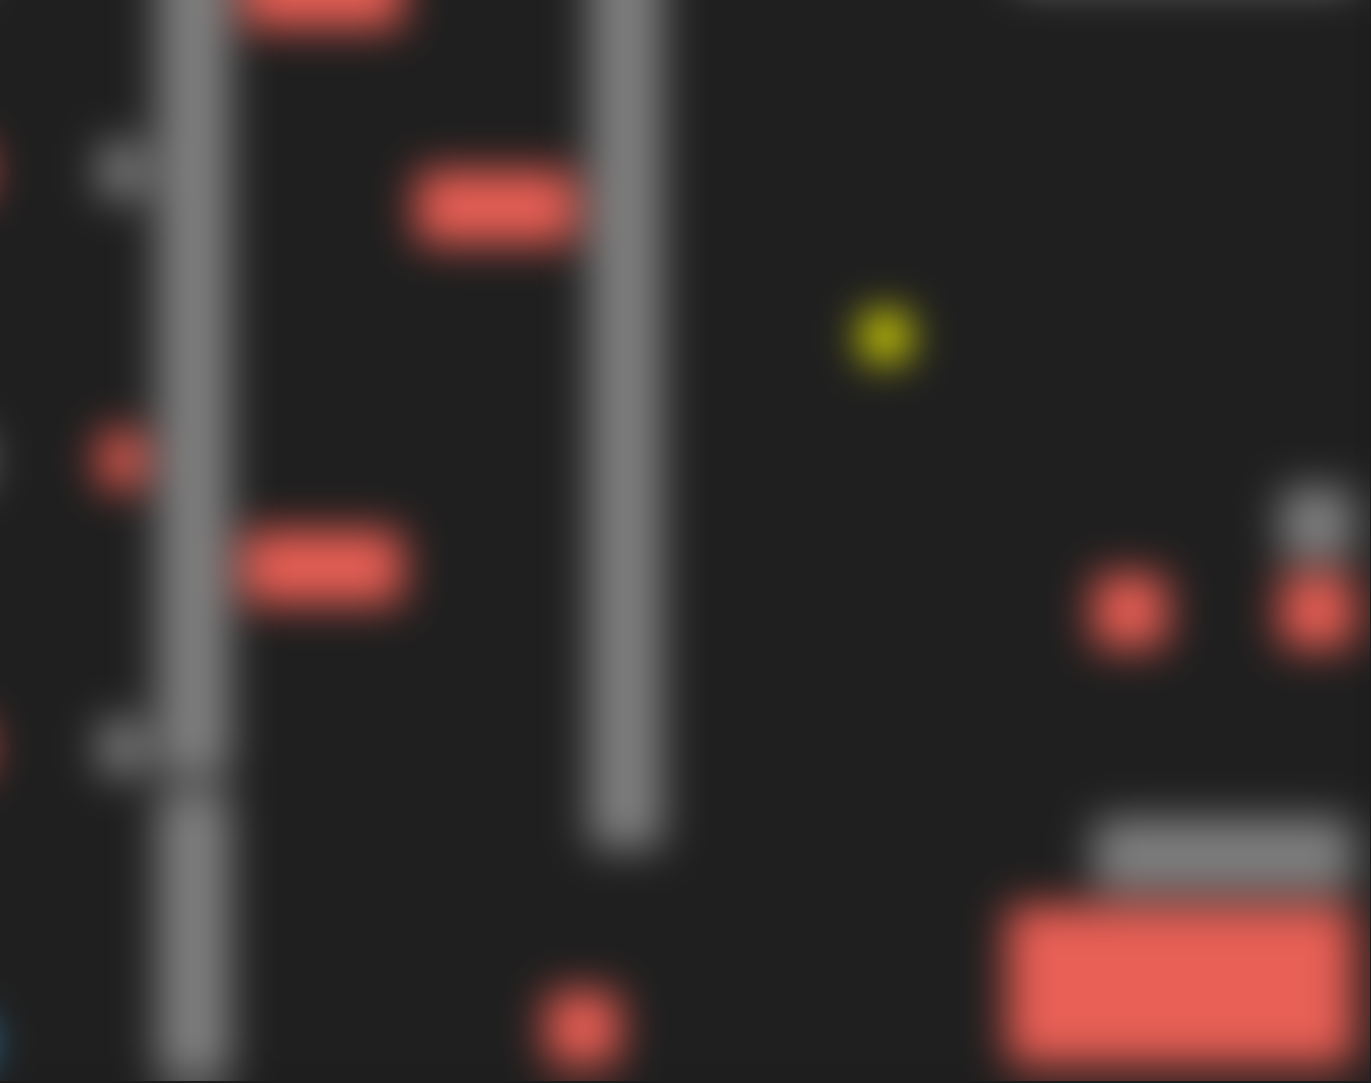
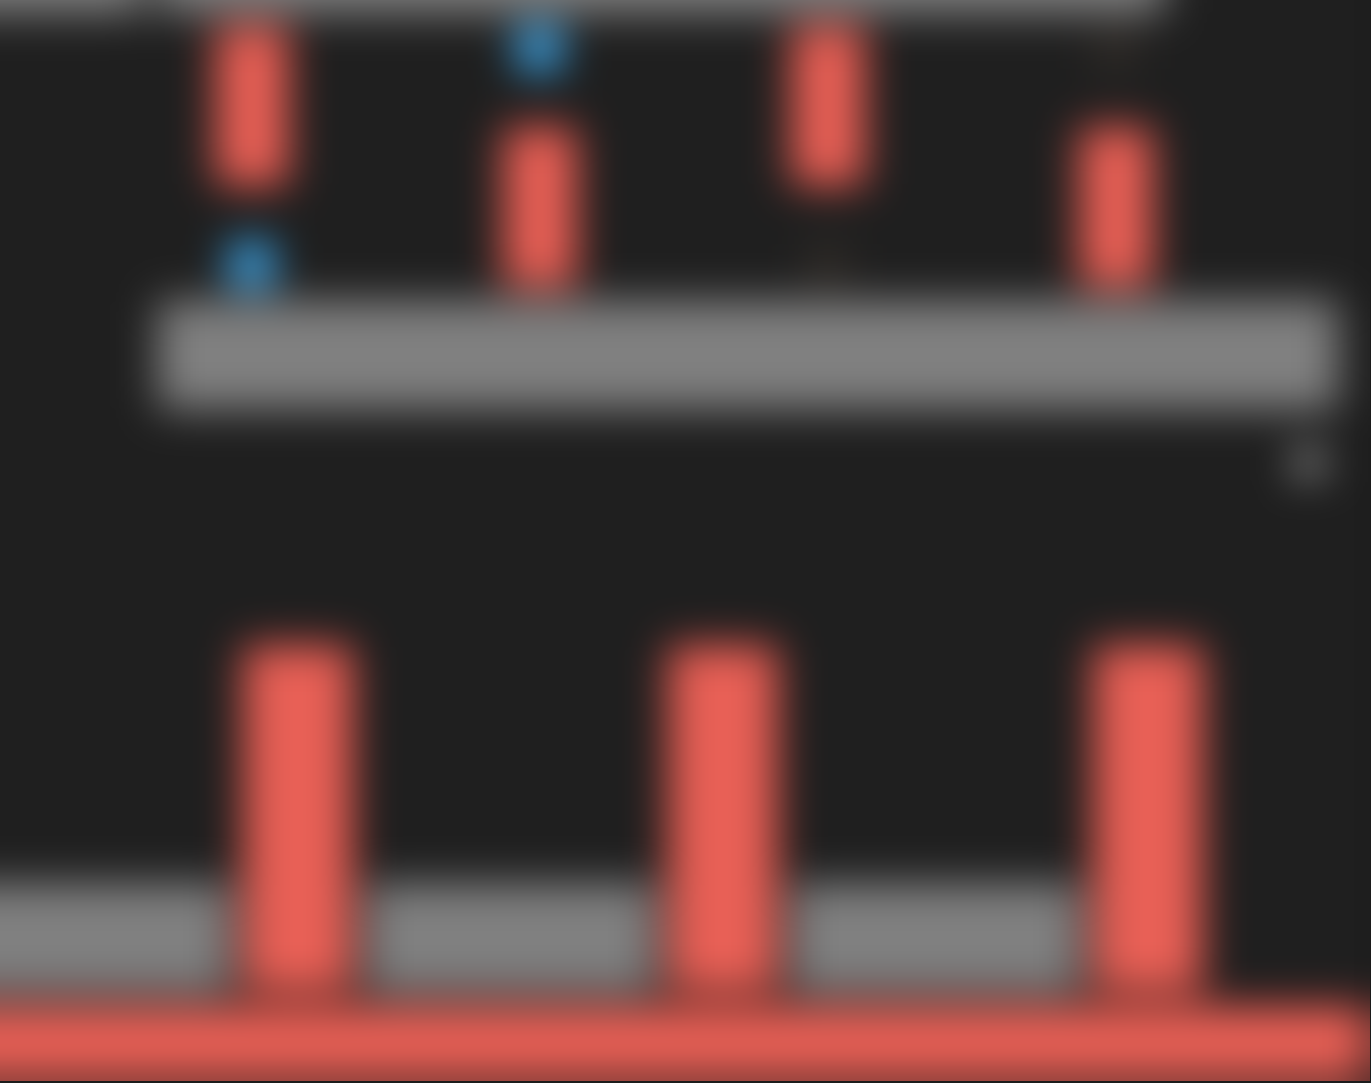
New font and translucent instead of dissappearing

diff --git a/main.py b/main.py
@@ -17,6 +17,7 @@ import colorsys
 PLAYER_SIZE = 30
 DEBUG = True
 TRANSPARENT = '#ab23ff'
+DEFAULT_DELAY = 1500
 
 BLOCK, PAD, MOVEMENT, SPIKES, TOGGLE, GOAL, TRIGGER, TRIGGERFLIP, FLIPPER, COIN = 'block', 'pad', 'movement', 'spikes', 'toggle', 'goal', 'trigger', 'triggerflip', 'flipper', 'coin'
 
@@ -79,7 +80,7 @@ class Level:
     def unlock(self):
         self.unlocked = True
         
-    def add_block(self, x, y, width, height, tag = 'none', color = default_colors[BLOCK], touchdisable = False, disabledelay = 2000):
+    def add_block(self, x, y, width, height, tag = 'none', color = default_colors[BLOCK], touchdisable = False, disabledelay = DEFAULT_DELAY):
         self.blocks.append(LevelElement(BLOCK, x, y, width, height, tag = tag, color = color, touchdisable = touchdisable, disabledelay = disabledelay))
         return self
     
@@ -98,7 +99,7 @@ class Level:
         self.spikes.append(LevelElement(SPIKES, x, y, width, height, tag = tag, color = color))
         return self
     
-    def add_pad(self, x, y, width, height, jheight = -25, tag = 'none', color = default_colors[PAD], touchdisable = False, disabledelay = 2000):
+    def add_pad(self, x, y, width, height, jheight = -25, tag = 'none', color = default_colors[PAD], touchdisable = False, disabledelay = DEFAULT_DELAY):
         if width == 0:
             width = PLAYER_SIZE
         if height == 0:
@@ -127,7 +128,7 @@ class Level:
         self.coins.append(LevelElement(COIN, x, y, tag = tag))
         return self
     
-    def add_trigger(self, x, y, width, height, disabletag, color = default_colors[TRIGGER], tag = 'none', enabled = False, touchdisable = False, disabledelay = 2000):
+    def add_trigger(self, x, y, width, height, disabletag, color = default_colors[TRIGGER], tag = 'none', enabled = False, touchdisable = False, disabledelay = DEFAULT_DELAY):
         if width == 0:
             width = PLAYER_SIZE
         if height == 0:
@@ -146,7 +147,7 @@ class Level:
         self.add_spikes(0, 950, 1000, 50, color = color, tag = tag)
         return self
     
-    def add_flipper(self, x, y, width, height, tag = 'none', color = default_colors[FLIPPER], touchdisable = False, disabledelay = 2000):
+    def add_flipper(self, x, y, width, height, tag = 'none', color = default_colors[FLIPPER], touchdisable = False, disabledelay = DEFAULT_DELAY):
         if width == 0:
             width = PLAYER_SIZE
         if height == 0:
@@ -171,7 +172,7 @@ class Game:
         
         self.size = (self.root.winfo_screenheight() / 10) * 8
         
-        fnt = 'Segoe UI Variable'
+        fnt = 'Segoe UI Light'
         
         self.huge_font = (fnt, 45)
         self.big_font = (fnt, 35)
@@ -434,8 +435,8 @@ class Game:
         
         self.levels[0]\
             .add_spikes(0, 300, 1000, 50, 'bigspikes')\
-            .add_block(640, 390, 360, 50)\
-            .add_trigger(520, 100, 0, 0, 'bigspikes', enabled = True)\
+            .add_block(640, 390, 350, 50, 'bl', touchdisable = True)\
+            .add_trigger(520, 100, 0, 0, 'bigspikes', enabled = True, touchdisable = True, tag = 'trig')\
             .add_block(0, 700, 200, 50)\
             .add_block(400, 900, 200, 50, 'moveblock')\
             .add_movement((4, 0), reps = 20, delay = 30, tag = 'moveblock')\
@@ -528,8 +529,8 @@ class Game:
             .add_spikes(430, 940, 50, 50)\
             .add_spikes(750, 880, 240, 110)\
             .add_block(810, 820, 180, 50)\
-            .add_spikes(750, 650, 50, 220, 'balls')\
-            .add_time_toggle('balls', 1000)\
+            .add_spikes(750, 650, 50, 220, 'spikes')\
+            .add_time_toggle('spikes', 1000)\
             .add_spikes(810, 650, 50, 50)\
             .add_spikes(940, 650, 50, 50)\
             .add_block(940, 590, 50, 50)\
@@ -671,9 +672,27 @@ class Game:
                 if time() - flipper.last_press > 0.5:
                     self.gravity *= -1
                     flipper.last_press = time()
-                if flipper.touch_disable:
-                    self.canvas.itemconfigure(flipper.tag, state = 'hidden')
-                    self.disabled_tags.append(flipper.tag)
+                    if flipper.touch_disable:
+                        STEPSIZE = 10
+                        id = f'{flipper.tag}+{flipper.disable_delay}disable'
+                        base_color = flipper.color
+                        print(fade_to_bg(base_color, 0.3))
+                        steps = flipper.disable_delay / STEPSIZE
+                        gradient = Color(base_color).range_to(fade_to_bg(base_color, 0.1), int(steps))
+                        grad_list = copy([a for a in gradient])
+                        
+                        def disable(flipper = flipper, id = id, grad_list = grad_list, index = 0):
+                            try:
+                                col = grad_list[index]
+                            except IndexError:
+                                del self.afters[id]
+                                self.disabled_tags.append(flipper.tag)
+                            else:
+                                self.canvas.itemconfigure(flipper.tag, fill = col.get_hex(), outline = deluminance(col.get_hex()))
+                                self.afters[id] = self.root.after(STEPSIZE, disable, flipper, id, grad_list, index + 1)
+                            
+                        if not id in self.afters:
+                            self.afters[id] = self.root.after(STEPSIZE, disable)
                     
         for coin in self.level.coins:
             if self.test_player(coin):
@@ -688,6 +707,9 @@ class Game:
             self.player[1] += self.y_speed
             failed = False
             for block in self.level.blocks:
+                test = False
+                if self.test_player(block):
+                    test = True
                 while self.test_player(block, True):
                     self.player[1] += move
                     failed = True
@@ -695,25 +717,29 @@ class Game:
                         if move * self.gravity < 0:
                             self.grounded = True
                             self.jumps = 2
-                        
                     self.y_speed = self.gravity
                         
                 if failed:
-                    self.player[1] -= 3
-                    test = self.test_player(block)
-                    self.player[1] += 3
-                    
+                    STEPSIZE = 10
                     if block.touch_disable and test:
                         id = f'{block.tag}+{block.disable_delay}disable'
+                        base_color = self.canvas.itemcget(block.tag, 'fill')
+                        steps = block.disable_delay / STEPSIZE
+                        gradient = Color(base_color).range_to(fade_to_bg(base_color, 0.3), int(steps))
+                        grad_list = [a for a in gradient]
                         
-                        def disable(block = block, id = id):
-                            self.canvas.itemconfigure(block.tag, state = 'hidden')
-                            self.disabled_tags.append(block.tag)
-                            if id in self.afters:
+                        def disable(block = block, id = id, grad_list = grad_list, index = 0):
+                            try:
+                                col = grad_list[index]
+                            except IndexError: 
                                 del self.afters[id]
-                                
+                                self.disabled_tags.append(block.tag)
+                            else:
+                                self.canvas.itemconfigure(block.tag, fill = col.get_hex(), outline = deluminance(col.get_hex()))
+                                self.afters[id] = self.root.after(STEPSIZE, disable, block, id, grad_list, index + 1)
+                            
                         if not id in self.afters:
-                            self.afters[id] = self.root.after(block.disable_delay, disable)
+                            self.afters[id] = self.root.after(STEPSIZE, disable)
                             
                     break
                 
@@ -730,15 +756,7 @@ class Game:
                 happened = False
                 count = 0
                 while self.test_player(block, True):
-                    if block.touch_disable:
-                        def disable(block = block):
-                            self.canvas.itemconfigure(block.tag, state = 'hidden')
-                            self.disabled_tags.append(block.tag)
-                            id = f'{block.tag}+{block.disable_delay}disable'
-                            del self.afters[id]
-                        id = f'{block.tag}+{block.disable_delay}disable'
-                        if not id in self.afters:
-                            self.afters[id] = self.root.after(block.disable_delay, disable)
+                            
                     if count > 8:
                         self.die()
                         break
@@ -756,9 +774,26 @@ class Game:
                 if time() - trigger.last_press > 0.5:
                     trigger.func()
                     trigger.last_press = time()
-                if trigger.touch_disable:
-                    self.canvas.itemconfigure(trigger.tag, state = 'hidden')
-                    self.disabled_tags.append(trigger.tag)
+                    if trigger.touch_disable:
+                        STEPSIZE = 10
+                        id = f'{trigger.tag}+{trigger.disable_delay}disable'
+                        base_color = self.canvas.itemcget(trigger.tag, 'fill')
+                        steps = trigger.disable_delay / STEPSIZE
+                        gradient = Color(base_color).range_to(fade_to_bg(base_color, 0.3), int(steps))
+                        grad_list = [a for a in gradient]
+                        
+                        def disable(trigger = trigger, id = id, gradient = gradient, index = 0):
+                            try:
+                                col = grad_list[index]
+                            except IndexError: 
+                                del self.afters[id]
+                                self.disabled_tags.append(trigger.tag)
+                            else:
+                                self.canvas.itemconfigure(trigger.tag, fill = col.get_hex(), outline = deluminance(col.get_hex()))
+                                self.afters[id] = self.root.after(STEPSIZE, disable, trigger, id, gradient, index + 1)
+                            
+                        if not id in self.afters:
+                            self.afters[id] = self.root.after(STEPSIZE, disable)
         
         if self.test_player(self.level.goal):
             self.touch_goal()
@@ -947,7 +982,8 @@ class Game:
             self.canvas.create_text(x - 1, y - 1, font = self.mini_font, anchor = CENTER, tag = tag, text = '$', justify = CENTER)
             
         for toggle in draw_lvl.toggles:
-            def callback(delay = toggle.delay, tag = toggle.tag):
+            normal_col = self.canvas.itemcget(toggle.tag, 'fill')
+            def callback(delay = toggle.delay, tag = toggle.tag, normal_col = normal_col):
                 if not self.playing:
                     return
                 object = None
@@ -955,7 +991,7 @@ class Game:
                     if obj.tag == tag:
                         object = obj
                 if tag in self.disabled_tags:
-                    self.canvas.itemconfigure(tag, state = 'normal')
+                    self.canvas.itemconfigure(tag, fill = normal_col, outline = deluminance(normal_col))
                     if tag in self.disabled_tags:
                         self.disabled_tags.remove(tag)
                     if object != None and self.test_player(object):
@@ -963,9 +999,9 @@ class Game:
                         return
                 else:
                     self.disabled_tags.append(tag)
-                    self.canvas.itemconfigure(tag, state = 'hidden')
+                    self.canvas.itemconfigure(tag, fill = fade_to_bg(normal_col, 0.3), outline = fade_to_bg(normal_col, 0.2))
                 self.afters[f'{delay}.{tag}toggle'] = self.root.after(delay, callback, delay, tag)
-            self.afters[f'{toggle.delay}.{toggle.tag}toggle'] = self.root.after(toggle.delay, callback, toggle.delay, toggle.tag)
+            self.afters[f'{toggle.delay}.{toggle.tag}toggle'] = self.root.after(toggle.delay, callback, toggle.delay, toggle.tag, normal_col)
             
         for movement in draw_lvl.movements:
             moves = movement.moves
@@ -1073,7 +1109,8 @@ class Game:
             
             sprite = self.round_rectangle(*positions(trigger.dimensions), fill = trigger.color[0], tag = (trigger.tag, 'level'), radius = 5)
             trig = self.level.triggers[index]
-            def callbacks(index = index, sprite = sprite):
+            normal_col = self.canvas.itemcget(trig.disable_tag, 'fill')
+            def callbacks(index = index, sprite = sprite, normal_col = normal_col):
                 trig = self.level.triggers[index]
                 if not self.playing:
                     return
@@ -1081,18 +1118,18 @@ class Game:
                     self.level.triggers[index].enabled = False
                     col = trigger.color[0]
                     self.canvas.itemconfigure(sprite, fill = col, outline = deluminance(col))
-                    self.canvas.itemconfigure(trig.disable_tag, state = 'hidden')
+                    self.canvas.itemconfigure(trig.disable_tag, fill = fade_to_bg(normal_col, 0.3), outline = fade_to_bg(normal_col, 0.2))
                     self.disabled_tags.append(trig.disable_tag)
                 else:
                     self.level.triggers[index].enabled = True
                     col = trigger.color[1]
                     self.canvas.itemconfigure(sprite, fill = col, outline = deluminance(col))
-                    self.canvas.itemconfigure(trig.disable_tag, state = 'normal')
+                    self.canvas.itemconfigure(trig.disable_tag, fill = normal_col, outline = deluminance(normal_col))
                     if trig.disable_tag in self.disabled_tags:
                         self.disabled_tags.remove(trig.disable_tag)
                         
-            callbacks(index, sprite)
-            callbacks(index, sprite)
+            callbacks()
+            callbacks()
                     
             trig.func = callbacks
         
@@ -1101,7 +1138,7 @@ class Game:
         self.canvas.create_image(x, y, image = self.goal_img, tag = ('level', 'goal'), anchor = tk.NW)
         
     #https://stackoverflow.com/questions/44099594/how-to-make-a-tkinter-canvas-rectangle-with-rounded-corners
-    def round_rectangle(self, x1, y1, x2, y2, radius=PLAYER_SIZE / 4, **kwargs):
+    def round_rectangle(self, x1, y1, x2, y2, radius = 5, **kwargs):
         radius *= 3
     
         points = [x1+radius, y1,
@@ -1153,9 +1190,16 @@ def in_block(player, block, check = BOTH):
     if check == X:
         return xin
     
-def deluminance(col):
+def fade_to_bg(color, step = 0.8):
+    step *= 10
+    bg = Color('#1f1f1f')
+    gradient = bg.range_to(color, 10)
+    
+    return next(x for i,x in enumerate(gradient) if i == step)
+    
+def deluminance(col, modifier = 0.8):
     color = Color(col)
-    color.set_luminance(color.get_luminance() * 0.8)
+    color.set_luminance(color.get_luminance() * modifier)
     return color.get_hex()
 
 Game()
